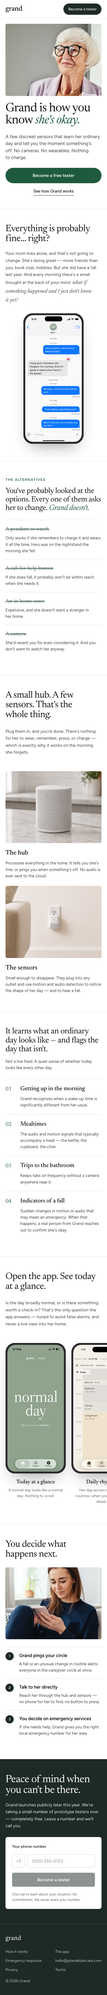
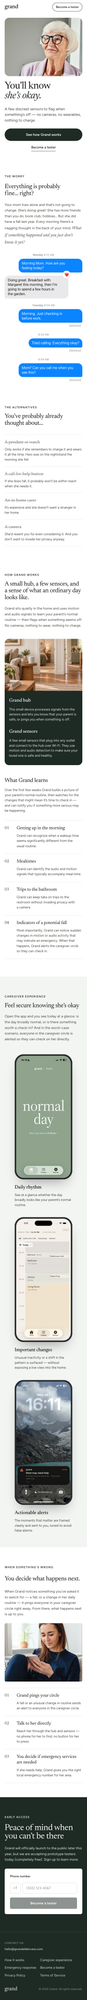
Refine tablet layout and add full-page responsive screenshots

diff --git a/homepage.css b/homepage.css
@@ -219,10 +219,10 @@ input::placeholder{color:var(--muted-2)}
 
 /* app */
 #tracking{background:#f3f5f2}
-/* Always three across or one down, never two: auto-fit found room for two
-   columns between ~700 and 840px and orphaned the third screenshot. */
+/* Keep all three app screens together on tablet and desktop. */
 .screens{display:grid;grid-template-columns:repeat(3,minmax(0,1fr));gap:32px}
-@media(max-width:860px){.screens{grid-template-columns:1fr;gap:44px}}
+@media(min-width:701px) and (max-width:1000px){.screens{gap:20px}}
+@media(max-width:700px){.screens{grid-template-columns:1fr;gap:44px}}
 /* Caption is capped to the phone's width and centred with it, so its left edge
    lines up with the screenshot instead of hanging off to the left. Both read
    one variable: the global mobile rule shrinks .phone to 220px, which would
@@ -233,6 +233,17 @@ input::placeholder{color:var(--muted-2)}
 .screens figcaption{display:flex;flex-direction:column;gap:6px;width:100%;max-width:var(--phone-w)}
 .screens figcaption b{font-family:var(--serif);font-weight:500;font-size:22px;letter-spacing:-.01em}
 .screens figcaption span{font-size:15px;line-height:1.5;color:var(--ink-3)}
+
+/* Tablet response: full-width introduction, then steps beside the photo. */
+@media(min-width:701px) and (max-width:1000px){
+ #response .grid-2{grid-template-columns:minmax(0,1.2fr) minmax(0,1fr);gap:24px 32px;align-items:start}
+ #response .grid-2>.stack{display:contents}
+ #response .grid-2>.stack>.eyebrow,
+ #response .grid-2>.stack>h2,
+ #response .grid-2>.stack>.body-lg{grid-column:1/-1}
+ #response .routine-list{grid-column:1;grid-row:4}
+ #response .grid-2>img{grid-column:2;grid-row:4;align-self:start}
+}
 
 /* waitlist + footer */
 .waitlist{background:var(--band);color:#fff}

diff --git a/README.md b/README.md
@@ -4,6 +4,10 @@ Static landing-page wireframe for Grand.
 
 ## Status
 
+- Updated full-page homepage screenshots in `docs/screenshots/homepage/`: desktop at 1440px, tablet at 768px, and mobile at 390px, documenting the final design and tablet refinements for PR #74.
+
+- Refined the tablet layout (701–1000px): caregiver app screenshots remain three across; the emergency section places its introduction above a paired layout of response steps and a compact photo, instead of letting the photo expand beneath the section.
+
 - Removed the mint background from “The alternatives”; retained the open, square-edged layout, spacing, and shared content alignment.
 
 - Changed “The alternatives” to a full-width mint band with square edges, retaining the shared content alignment and responsive comparison layout. This supersedes the restored rounded panel below.
